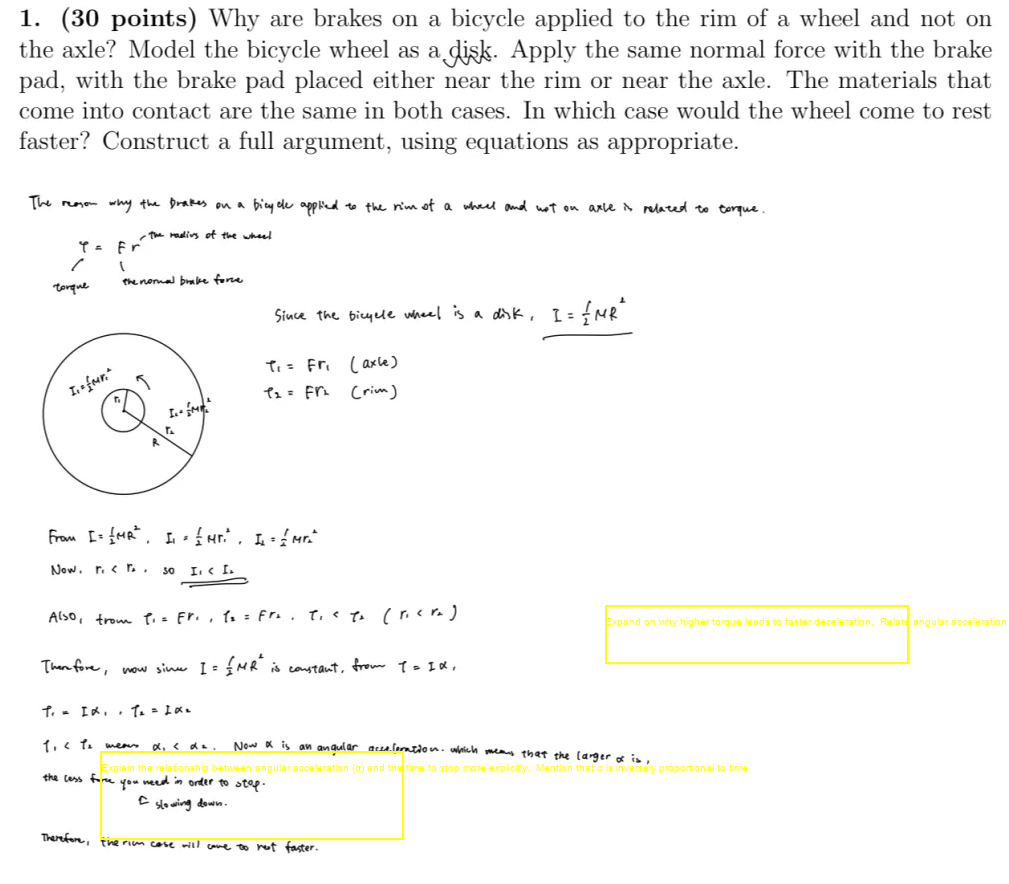
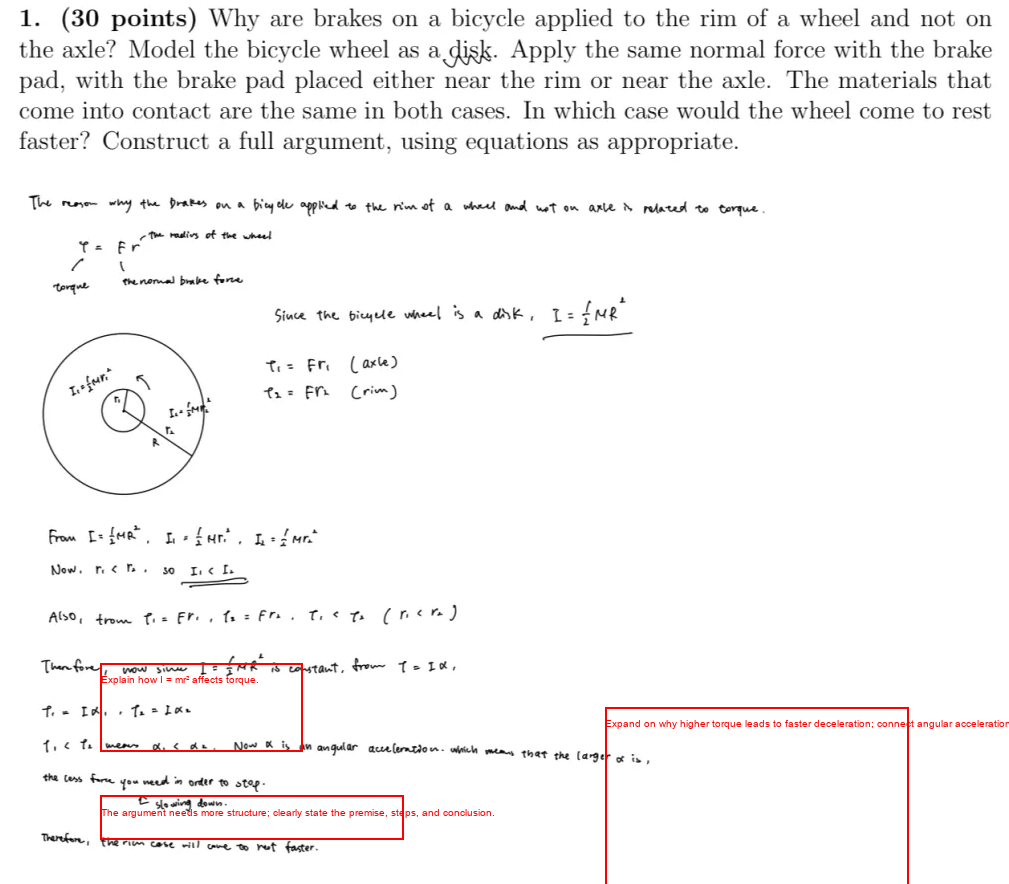
32312312312

diff --git a/app/gemini.py b/app/gemini.py
@@ -65,7 +65,7 @@ def grade_answer_gemini(problem_images, answer_images, grading_standards, scorin
 
         for mod in modifications:
             shape = mod['shape']
-            color = mod['color']
+            color = 'red'
             coords = mod['coordinates']
             text = mod['text']
             line_width = mod.get('line_width', 2)  # Default line width
@@ -168,7 +168,7 @@ def grade_answer_gemini(problem_images, answer_images, grading_standards, scorin
                 "image_modifications": [
                     {{
                         "shape": "<shape to draw (e.g., circle, rectangle, line)>",
-                        "color": "<color of the shape (e.g., red, blue)>",
+                        "color": "red",
                         "coordinates": [<x1>, <y1>, <x2>, <y2>]  // or [<center_x>, <center_y>, <radius>] for circles, in ratio range [0,1]
                         "line_width": <integer>,
                         "font_size": <integer>,
